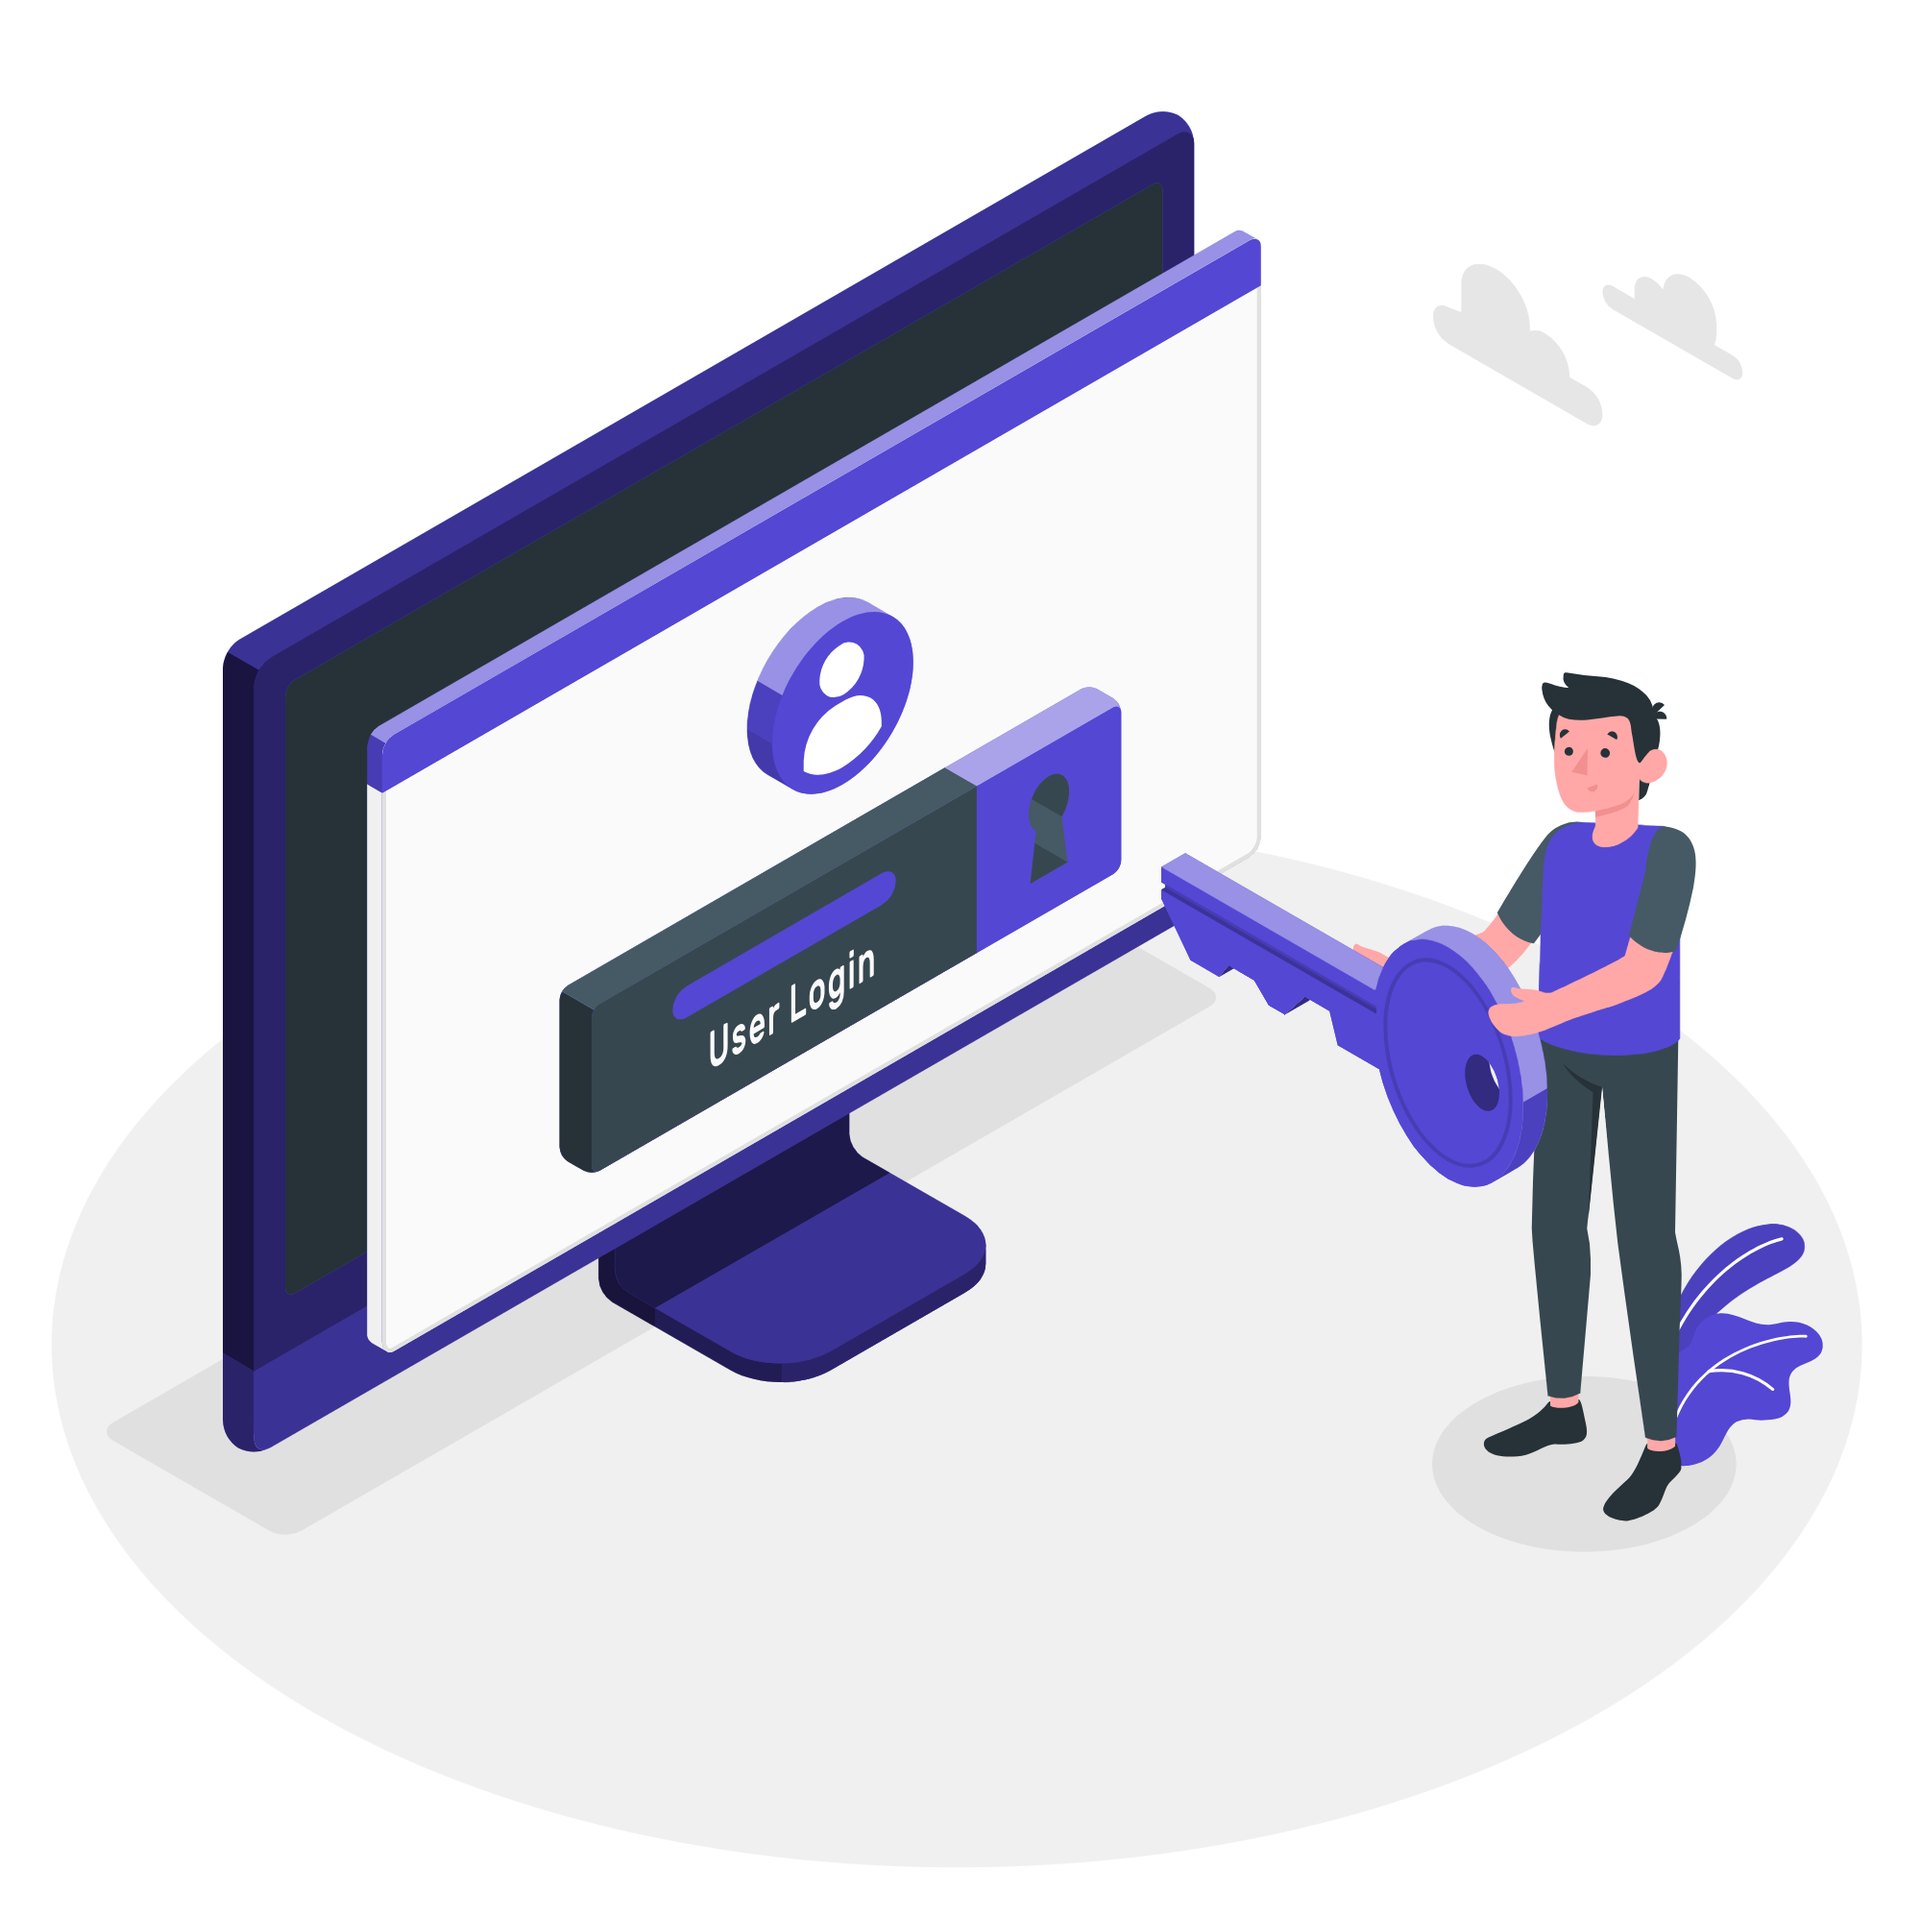
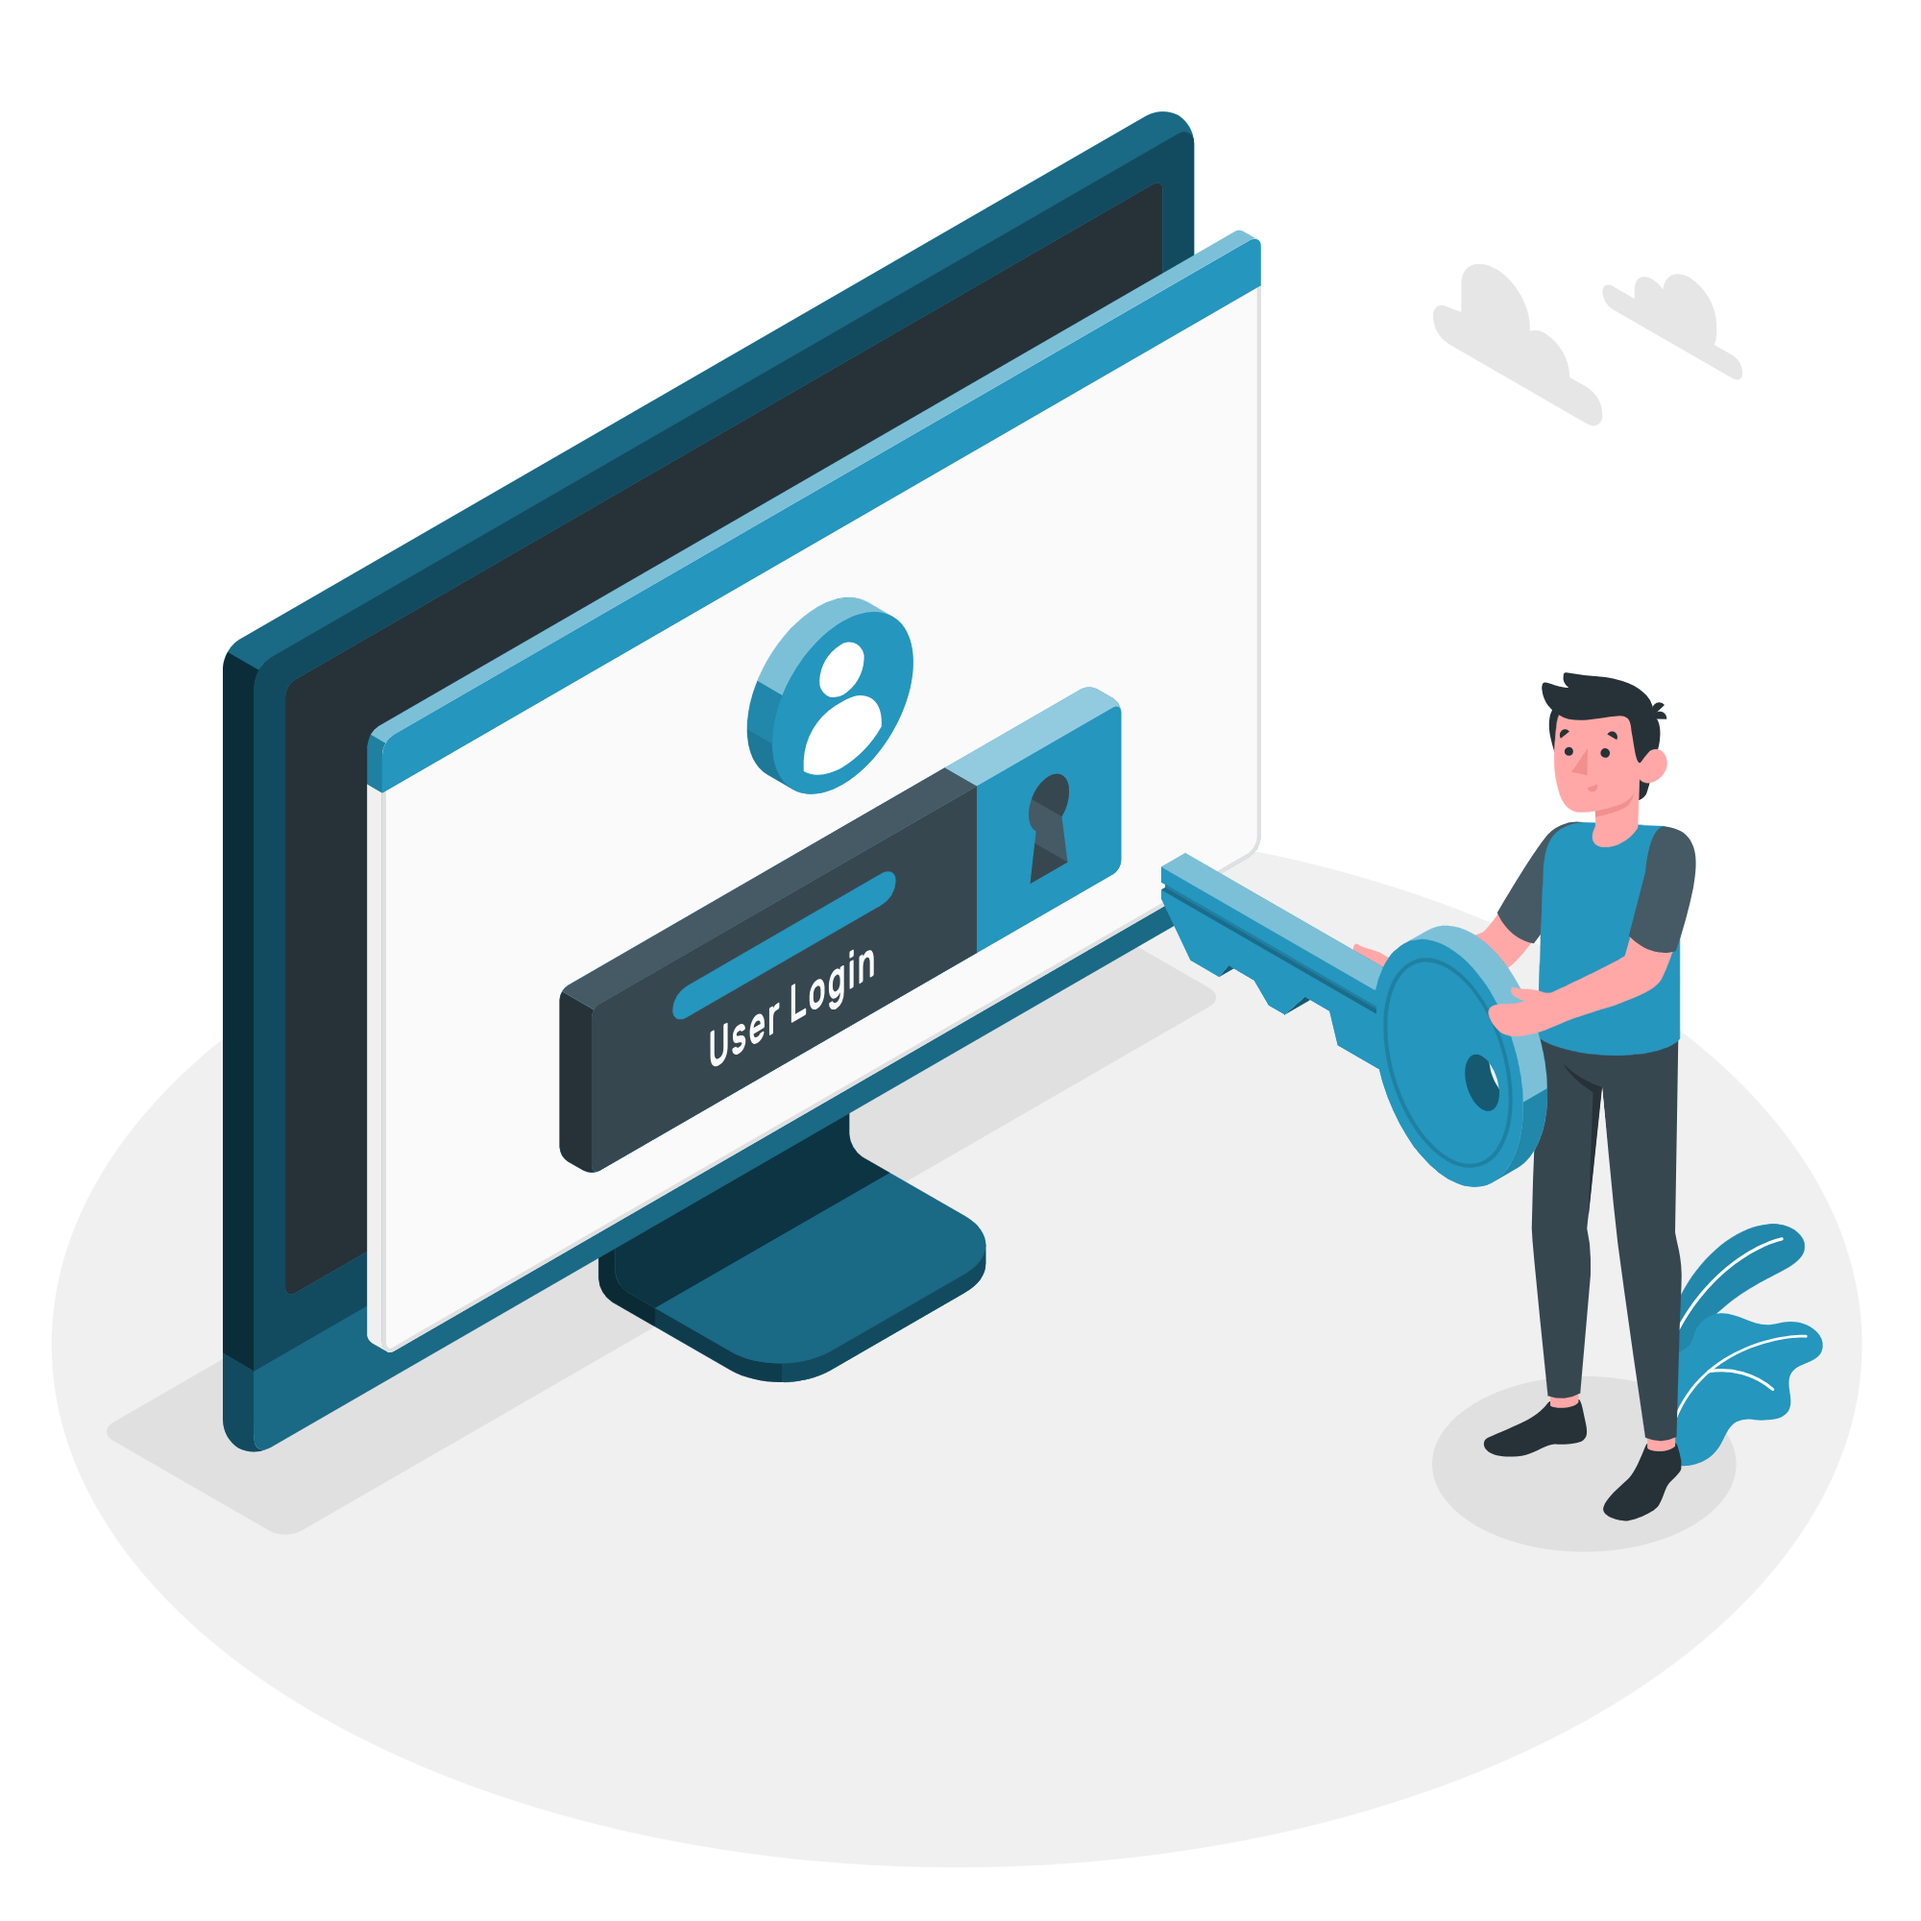
v.0

diff --git a/pages/sign-in.html b/pages/sign-in.html
@@ -32,14 +32,14 @@
                             <a href="#!">Forgot password?</a>
                         </div>
                         <div class="d-grid gap-2">
-                            <button type="submit" class="btn btn-primary">Sign in</button>
+                            <button type="submit" class="btn btn-primary" style="background-color: #2596BE;">Sign in</button>
                         </div>
 
                         <div class="divider d-flex justify-content-center my-4">
                             <p class="text-center fw-bold mx-3 mb-0 text-muted">OR</p>
                         </div>
                         <div class="d-flex justify-content-center">
-                            <a class="btn btn-primary btn-lg btn-block" href="sign-up.html" role="button">Sign-up</a>
+                            <a class="btn btn-primary btn-lg btn-block" href="sign-up.html" role="button" style="background-color: #2596BE;">Sign-up</a>
                         </div>
                     </form>
                 </div>

diff --git a/pages/sign-up.html b/pages/sign-up.html
@@ -75,7 +75,7 @@
                         </div>
     
                         <div class="d-flex justify-content-center mx-4 mb-3 mb-lg-4">
-                            <button type="button" class="btn btn-primary btn-lg">Register</button>
+                            <button type="button" class="btn btn-primary btn-lg" style="background-color: #2596BE;">Register</button>
                         </div>
 
                         <div class="divider d-flex justify-content-center my-4">
@@ -83,7 +83,7 @@
                         </div>
 
                         <div class="d-flex justify-content-center">
-                            <a class="btn btn-primary btn-lg btn-block" href="sign-in.html" role="button">Sign-in</a>
+                            <a class="btn btn-primary btn-lg btn-block" href="sign-in.html" role="button" style="background-color: #2596BE;">Sign-in</a>
                         </div>
 
                     </form>

diff --git a/pages/accueil.html b/pages/accueil.html
@@ -12,8 +12,8 @@
 <body>
     <header>
         <img src="image/HYde.png" style="width: 12%;">
-        <a href="sign-in.html" class="btn btn-primary">Sign In</a>
-        <a href="sign-up.html" class="btn btn-primary">Sign Up</a>
+        <a href="sign-in.html" class="btn btn-primary" style="background-color: #2596BE;">Sign In</a>
+        <a href="sign-up.html" class="btn btn-primary" style="background-color: #2596BE;">Sign Up</a>
     </header>
 
     <main>

diff --git a/pages/accueil.css b/pages/accueil.css
@@ -26,8 +26,5 @@
 /* *************************************** */
 
 @media screen and (min-width: 1024px) { 
-    header{
-        display: flex;
-        justify-content: space-between;
-    }
+
 }
